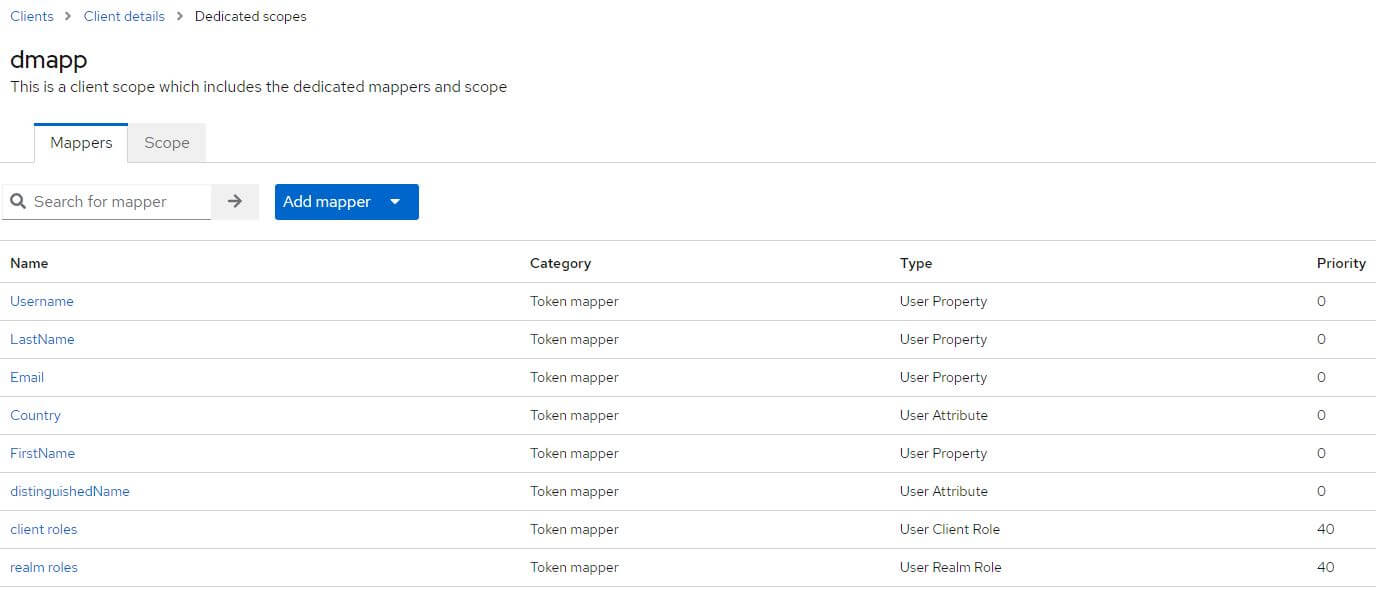
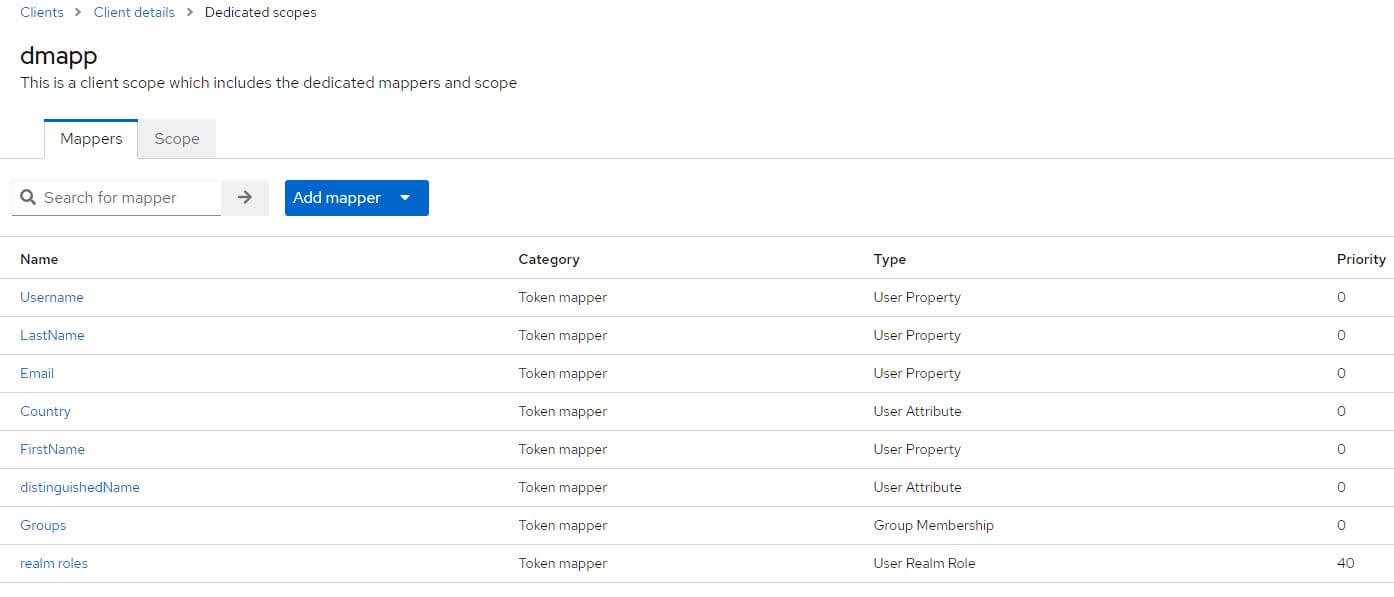
update doc Keycloak

diff --git a/docs/10-GettingStarted/20-SetupEnvironment/SetupEnvironmentKeycloak.md b/docs/10-GettingStarted/20-SetupEnvironment/SetupEnvironmentKeycloak.md
@@ -26,6 +26,8 @@ Among the fields requested in the **User** table in database, look at what the *
 
 ![user-federation-mapper](../../Images/Keycloak/user-federation-mapper.jpg)
 
+For **Groups**, don't forget to fill the field **LDAP Groups DN**. For example: ***OU=Roles,OU=Groups,OU=DM,OU=Service,OU=XXXXXX,DC=eu,DC=xxxxxx,DC=xxxxxx***
+
 At the top right, select from the list, **Sync all users**
 
 ![user-federation-mapper](../../Images/Keycloak/sync-all-user.jpg)
@@ -51,15 +53,14 @@ Go to the tab **Client scopes** and click on the link **biaapp-dedicated** conta
 
  ![dedicated-mappers-distinguishedName](../../Images/Keycloak/dedicated-mappers-distinguishedName.jpg)
 
- ![dedicated-mappers-client-roles](../../Images/Keycloak/dedicated-mappers-client-roles.jpg)
+ ![dedicated-mappers-groups](../../Images/Keycloak/dedicated-mappers-groups.jpg)
 
  ![dedicated-mappers-realm-roles](../../Images/Keycloak/dedicated-mappers-realm-roles.jpg)
 
  ## Role client
   
- Go to **Realm Roles**, create the role **bia-app-admin**
- Go to **Clients** > **biapp**, click on the tab **Roles**, create the role **bia-app-user-manager**.
- 
+ Go to **Realm Roles**, create the role **bia-app-admin** and **bia-app-user-manager**.
+  
  ## Group
  
 Go to **Groups**, create the group **APP_Admin** and the group **APP_BIADemo_UserManager**

diff --git a/docs/30-DeveloperGuide/20-Features/100-Call Web Api.md b/docs/30-DeveloperGuide/20-Features/100-Call Web Api.md
@@ -122,7 +122,7 @@ and in class
 
 ## Retry
 
-Sometimes, when an error occurs when calling a WebApi, we need to try again. The framework >= 3.8 implements Retry functionality by default (The retry is only executed once). Retry is based on a method that checks the retry conditions. Below is the default code. If the conditions do not suit you, you can change them.
+Sometimes, when an error occurs when calling a WebApi, we need to try again. The framework >= 3.8 implements Retry functionality by default (The retry is only executed once). Retry is based on a method that checks the retry conditions. Below is the default code. If the conditions do not suit you, you can change them by **override**.
 
 ```csharp
  protected virtual bool CheckConditionRetry(HttpResponseMessage response, bool useBearerToken)
